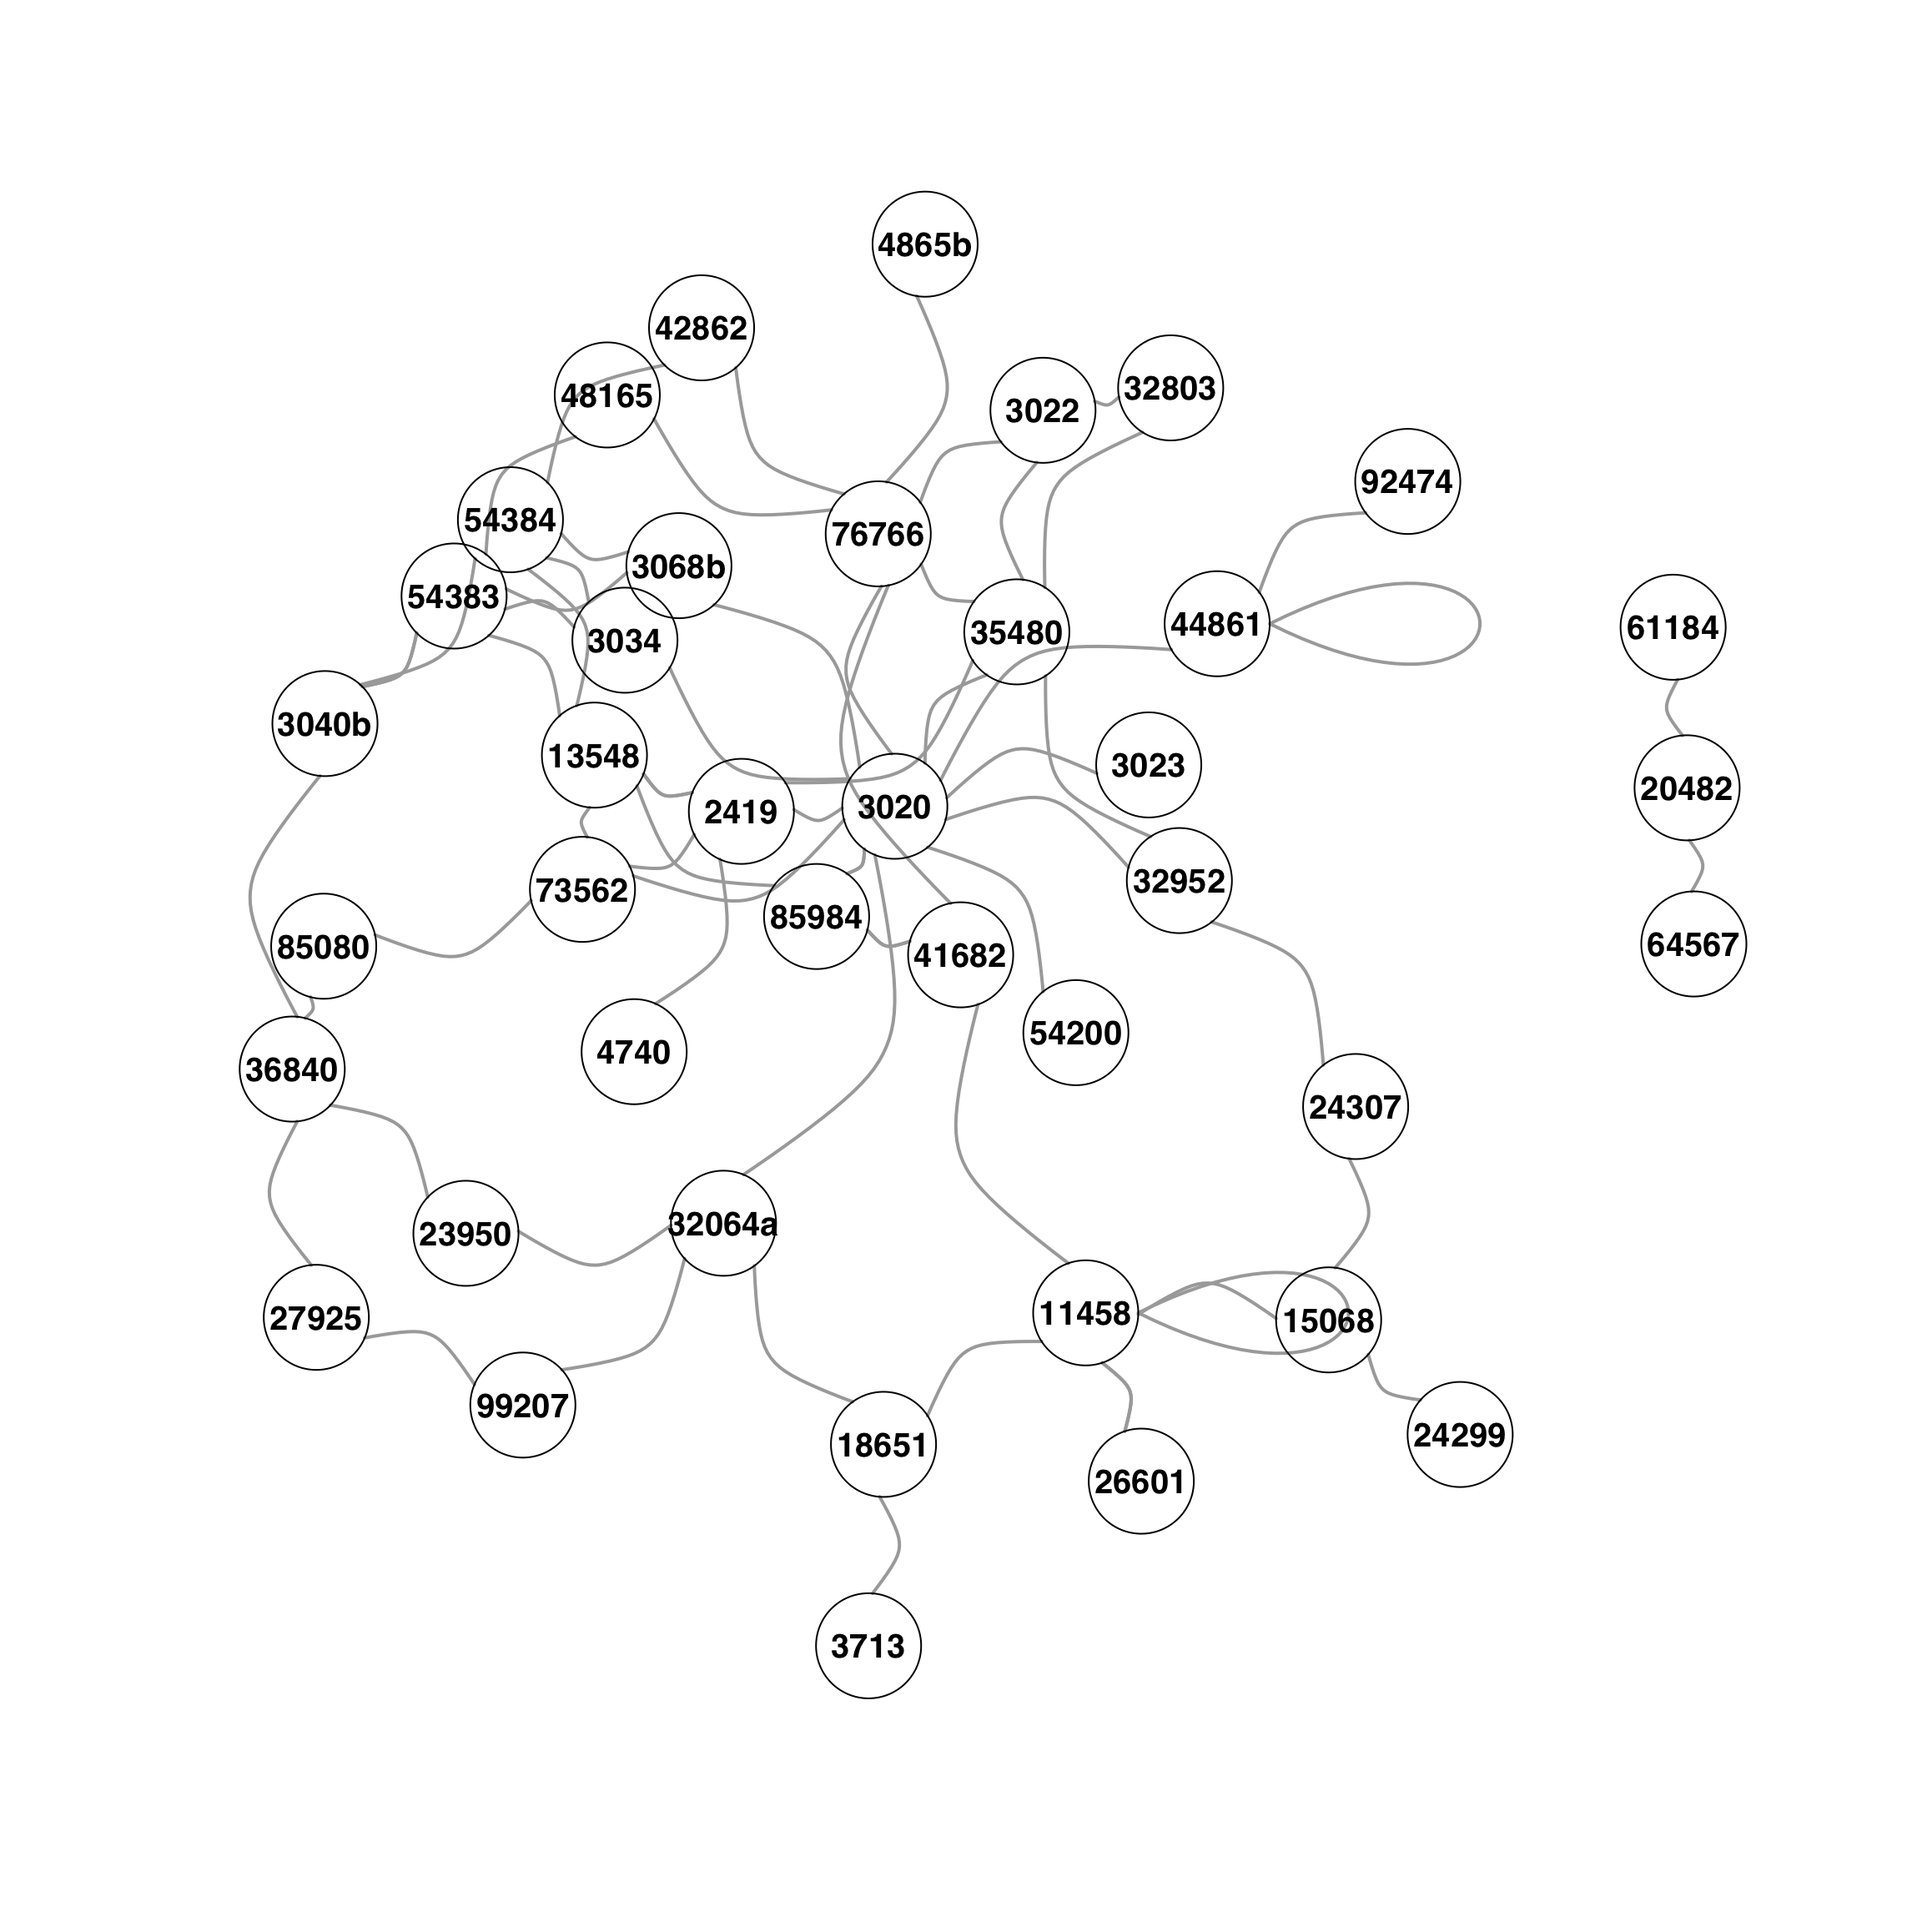
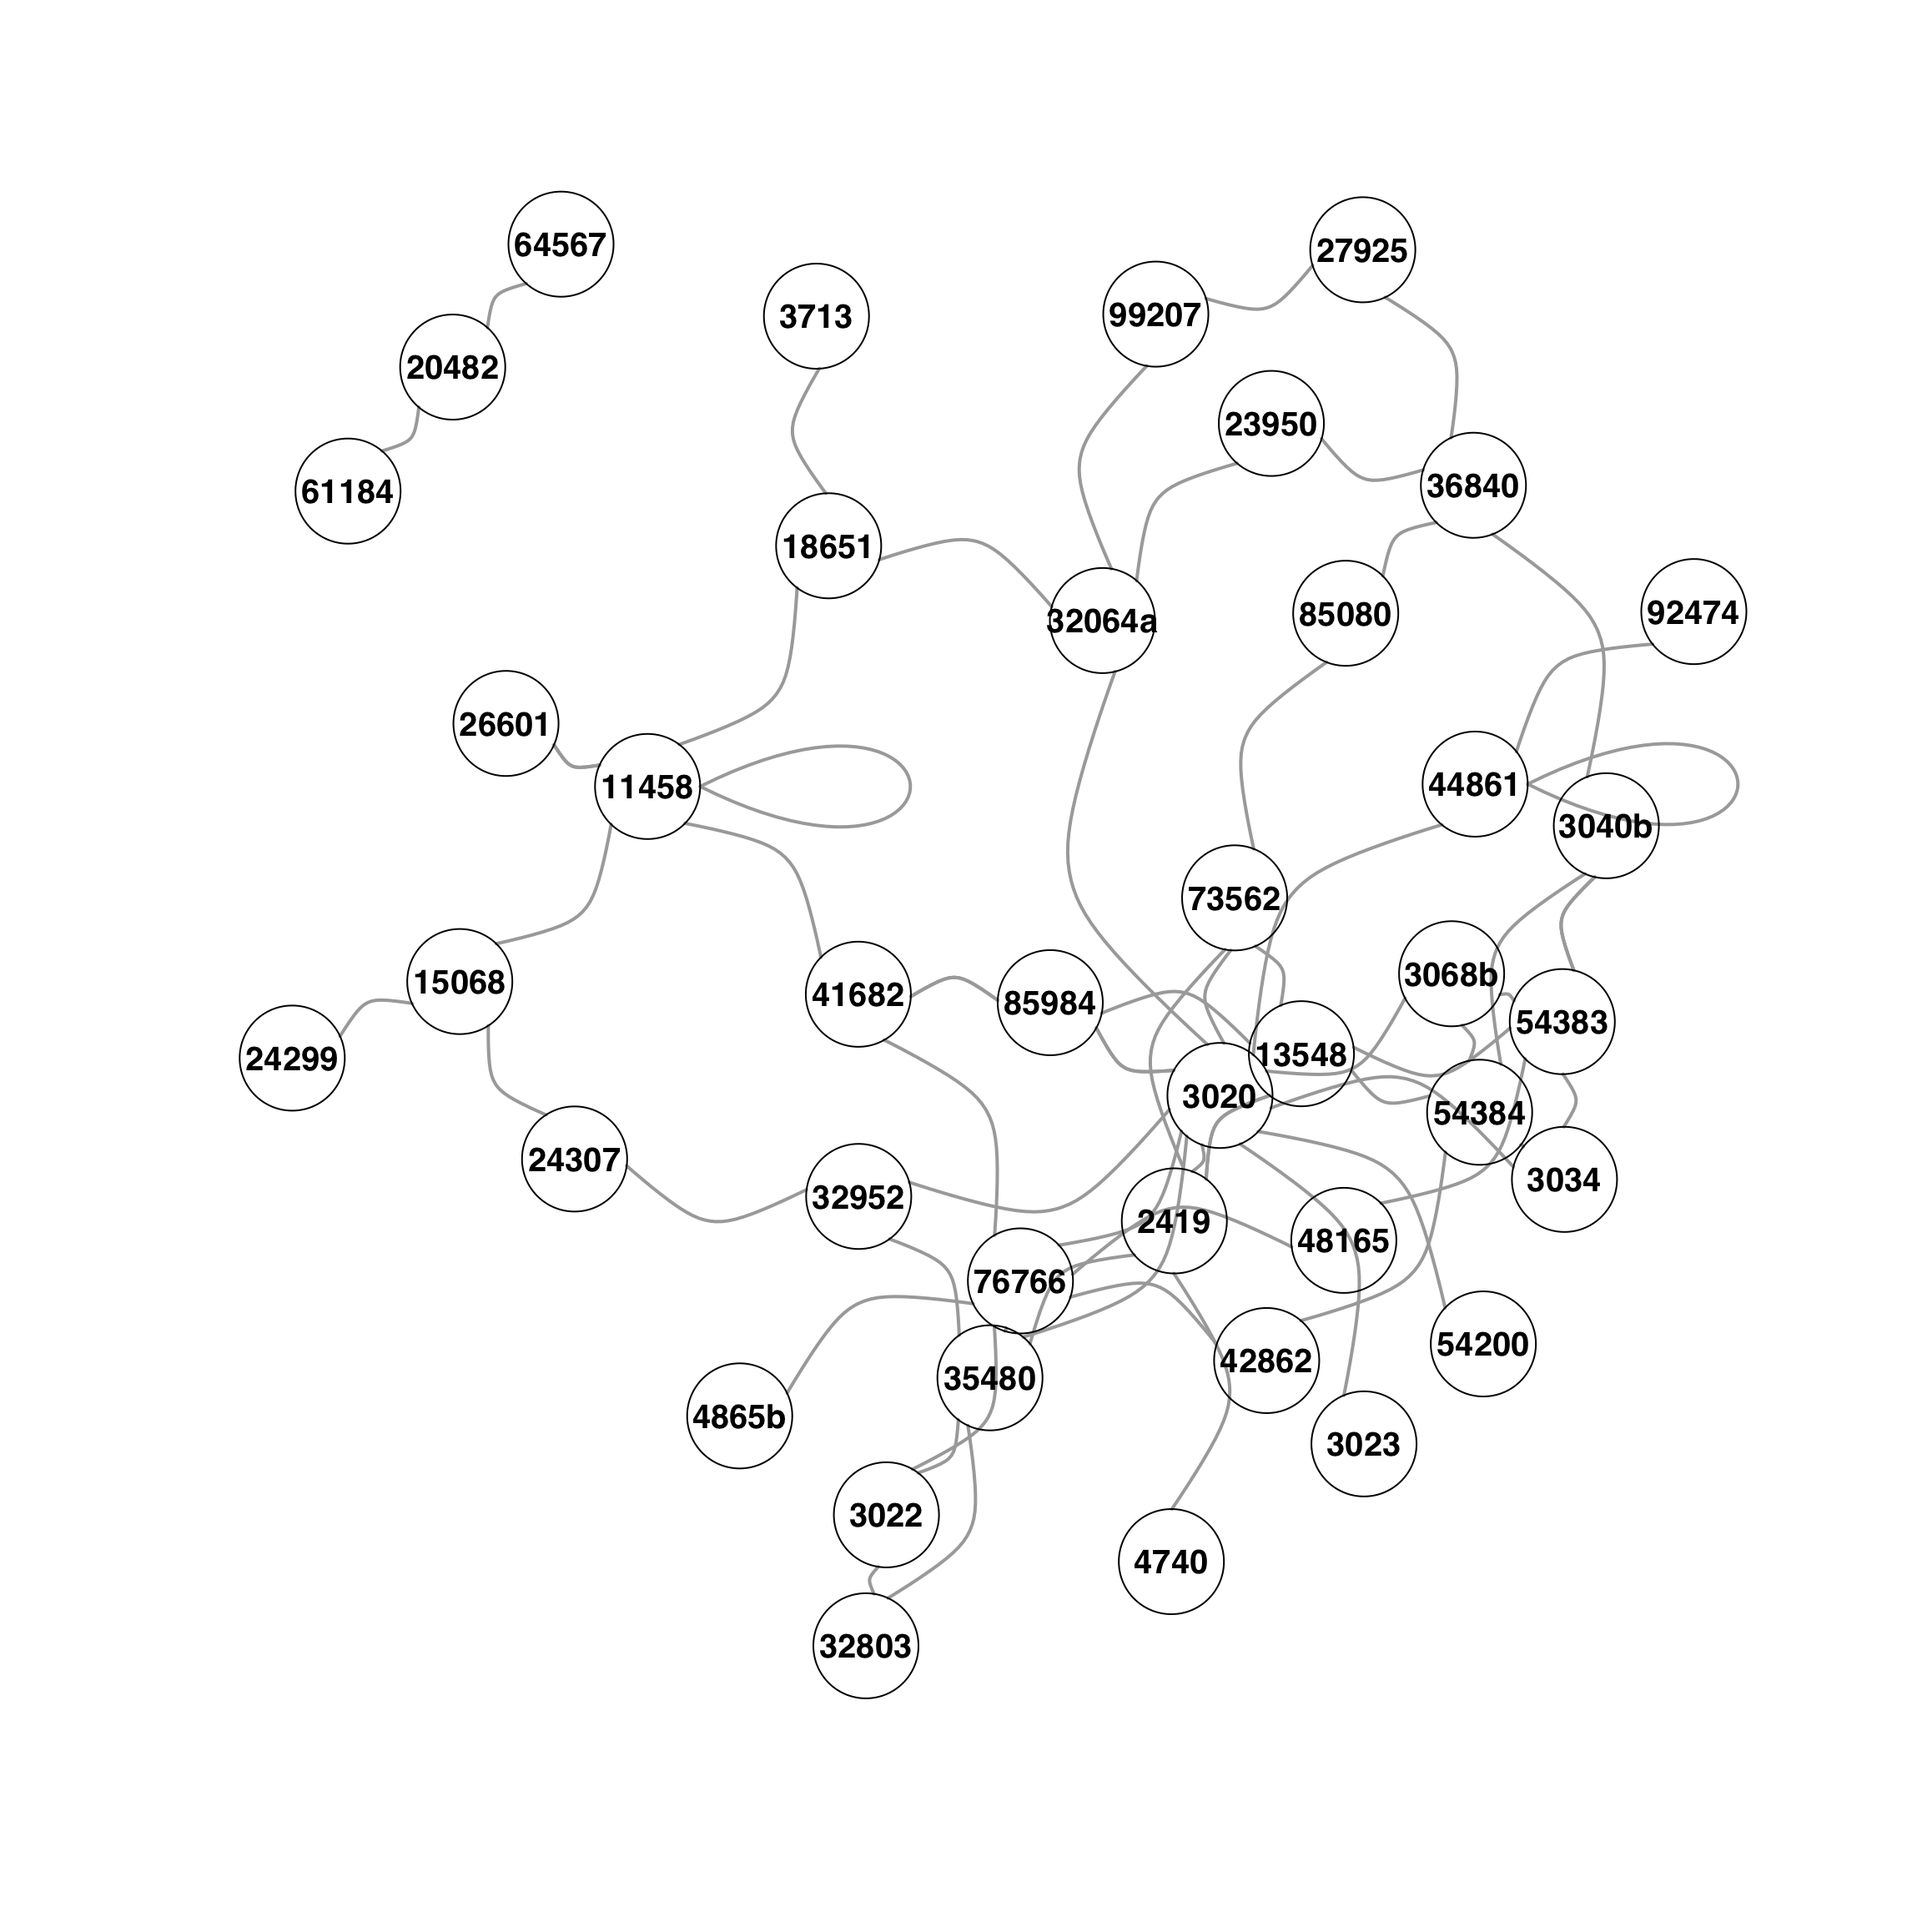
Updated ggraph code and inset.

diff --git a/lego.html b/lego.html
@@ -1158,7 +1158,7 @@ zero-extent matrix</code></pre>
 </section>
 <section id="plots-with-ggraph" class="level3">
 <h3 class="anchored" data-anchor-id="plots-with-ggraph">Plots with <code>ggraph</code></h3>
-<div class="cell" data-fig.h="12">
+<div class="cell">
 <div class="sourceCode cell-code" id="cb57"><pre class="sourceCode r code-with-copy"><code class="sourceCode r"><span id="cb57-1"><a href="#cb57-1" aria-hidden="true" tabindex="-1"></a><span class="fu">library</span>(ggraph)</span>
 <span id="cb57-2"><a href="#cb57-2" aria-hidden="true" tabindex="-1"></a><span class="fu">require</span>(tidygraph)</span>
 <span id="cb57-3"><a href="#cb57-3" aria-hidden="true" tabindex="-1"></a>ggp <span class="ot">&lt;-</span> <span class="fu">ggraph</span>(model75344.g, <span class="st">'igraph'</span>, <span class="at">algorithm =</span> <span class="st">'kk'</span>) <span class="sc">+</span> </span>
@@ -1179,7 +1179,7 @@ zero-extent matrix</code></pre>
 <span id="cb57-18"><a href="#cb57-18" aria-hidden="true" tabindex="-1"></a>                <span class="at">left =</span> <span class="fl">0.65</span>,</span>
 <span id="cb57-19"><a href="#cb57-19" aria-hidden="true" tabindex="-1"></a>                <span class="at">bottom =</span> <span class="fl">0.1</span>,</span>
 <span id="cb57-20"><a href="#cb57-20" aria-hidden="true" tabindex="-1"></a>                <span class="at">right =</span> <span class="fl">0.9</span>,</span>
-<span id="cb57-21"><a href="#cb57-21" aria-hidden="true" tabindex="-1"></a>                <span class="at">top =</span> <span class="fl">0.35</span>, <span class="at">align_to =</span> <span class="st">'full'</span>, <span class="at">clip=</span>T)</span>
+<span id="cb57-21"><a href="#cb57-21" aria-hidden="true" tabindex="-1"></a>                <span class="at">top =</span> <span class="fl">0.45</span>, <span class="at">align_to =</span> <span class="st">'full'</span>, <span class="at">clip=</span>T)</span>
 <span id="cb57-22"><a href="#cb57-22" aria-hidden="true" tabindex="-1"></a>ggp_image                           <span class="co"># Draw combined plot</span></span></code><button title="Copy to Clipboard" class="code-copy-button"><i class="bi"></i></button></pre></div>
 <div class="cell-output cell-output-stderr">
 <pre><code>Warning: Using the `size` aesthetic in this geom was deprecated in ggplot2 3.4.0.
